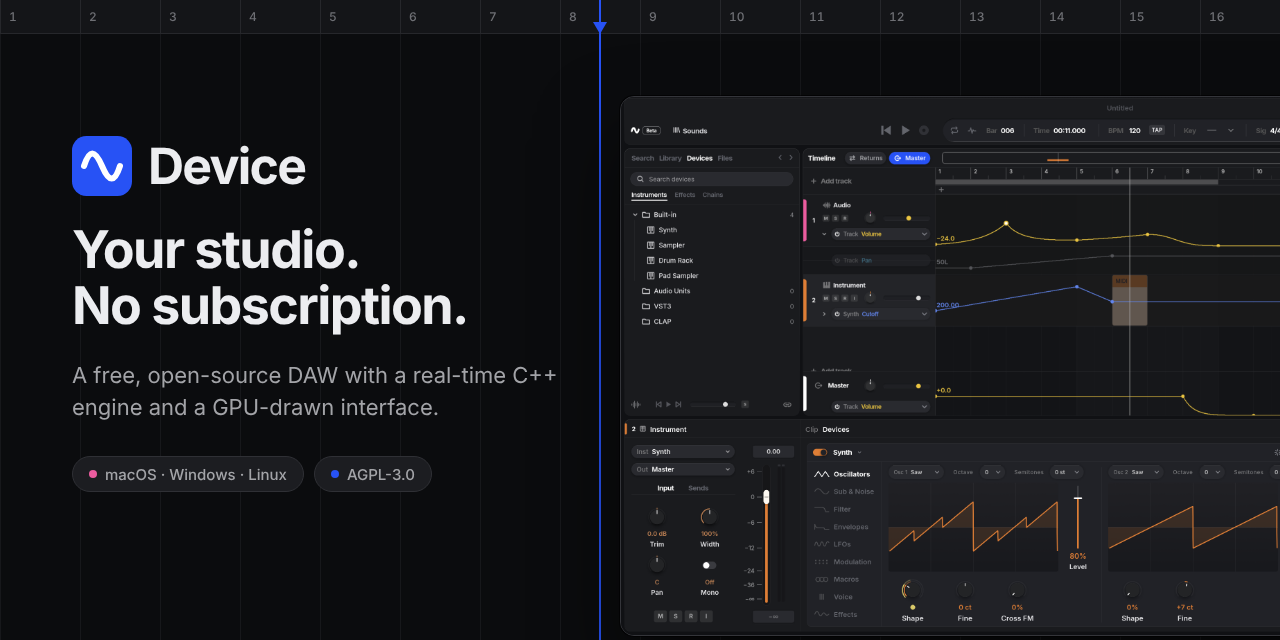
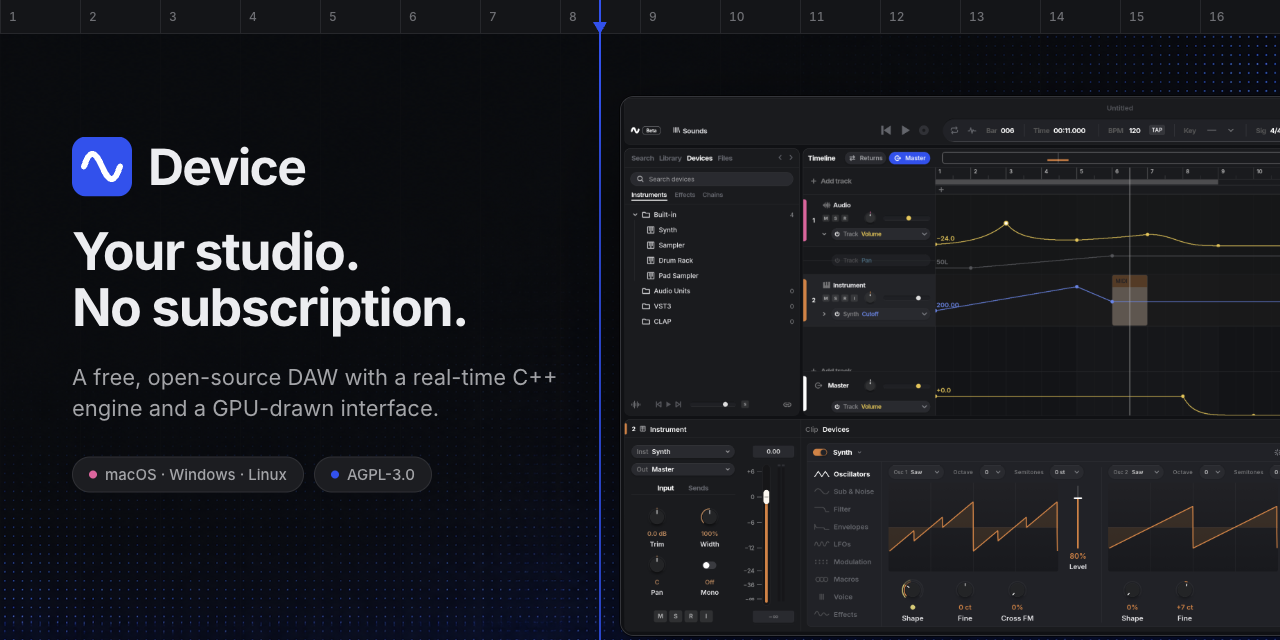
Apply Fine Signal texture to website branding

diff --git a/styles.css b/styles.css
@@ -39,6 +39,7 @@
   --text-3: #86878d;
   --blue: #2752f5;
   --blue-text: #8ea6ff;
+  --signal-texture: url("assets/fine-signal.webp");
   --pink: #ec5c9f;
   --orange: #de7e36;
   --yellow: #e4c64a;
@@ -50,6 +51,15 @@
   --mono: ui-monospace, "SF Mono", "Cascadia Code", "JetBrains Mono", Menlo,
     Consolas, monospace;
   --ease: cubic-bezier(0.2, 0.7, 0.2, 1);
+}
+
+@supports (background-image: image-set(url("assets/fine-signal.avif") type("image/avif"))) {
+  :root {
+    --signal-texture: image-set(
+      url("assets/fine-signal.avif") type("image/avif"),
+      url("assets/fine-signal.webp") type("image/webp")
+    );
+  }
 }
 
 *,
@@ -381,33 +391,19 @@ p {
   justify-content: flex-end;
   isolation: isolate;
   overflow: hidden;
-  background: radial-gradient(
-      60% 55% at 72% 70%,
-      rgb(39 82 245 / 0.18),
-      transparent 70%
-    ),
-    radial-gradient(40% 40% at 10% 100%, rgb(236 92 159 / 0.07), transparent),
-    var(--ground);
+  background: var(--ground);
 }
 .hero::before {
-  /* bar lines, matching the hero ruler */
+  /* A static image keeps the fine-dot material off the animation path. */
   content: "";
   position: absolute;
   inset: 0;
   z-index: -2;
-  background: repeating-linear-gradient(
-      90deg,
-      var(--grid) 0 1px,
-      transparent 1px 100%
-    )
-    0 0 / 6.25% 100%;
-  mask-image: linear-gradient(
-    180deg,
-    transparent,
-    #000 25%,
-    #000 75%,
-    transparent
-  );
+  background-image: var(--signal-texture);
+  background-position: center;
+  background-size: cover;
+  background-repeat: no-repeat;
+  pointer-events: none;
 }
 .hero::after {
   content: "";
@@ -493,12 +489,15 @@ p {
   margin-left: -0.05em;
 }
 .hero-accent {
-  background: linear-gradient(
+  background-image: var(--signal-texture), linear-gradient(
     92deg,
     #ffffff 0%,
     var(--blue-text) 45%,
     var(--blue) 100%
   );
+  background-size: 1000px auto, 100% 100%;
+  background-position: right center, center;
+  background-blend-mode: screen;
   -webkit-background-clip: text;
   background-clip: text;
   color: transparent;
@@ -522,6 +521,29 @@ p {
   flex-wrap: wrap;
   gap: 12px;
 }
+
+/* Fine Signal branding decorates marketing surfaces, never the app screenshots. */
+.plugin-band,
+.engine,
+.build {
+  position: relative;
+  isolation: isolate;
+}
+.plugin-band::before,
+.engine::before,
+.build::before {
+  content: "";
+  position: absolute;
+  z-index: -1;
+  inset: 0;
+  border-radius: inherit;
+  background: var(--signal-texture) right center / cover no-repeat;
+  opacity: 0.55;
+  pointer-events: none;
+}
+.engine::before { opacity: 0.3; }
+.build::before { opacity: 0.85; }
+
 /* ───────────────────────────── Reveal ───────────────────────────── */
 
 .reveal {
@@ -988,12 +1010,7 @@ html:not(.js) .chapter {
   padding: clamp(28px, 4vw, 48px);
   border: 1px solid var(--line);
   border-radius: var(--radius);
-  background: radial-gradient(
-      80% 120% at 100% 0%,
-      rgb(39 82 245 / 0.12),
-      transparent 60%
-    ),
-    var(--panel);
+  background: var(--panel);
 }
 .plugin-copy h3 {
   margin-bottom: 14px;
@@ -1104,12 +1121,7 @@ html:not(.js) .chapter {
 .engine {
   padding: clamp(96px, 12vw, 160px) 0;
   border-top: 1px solid var(--line);
-  background: radial-gradient(
-      50% 40% at 85% 30%,
-      rgb(39 82 245 / 0.1),
-      transparent 70%
-    ),
-    var(--ground);
+  background: var(--ground);
 }
 .engine-grid {
   display: grid;
@@ -1553,12 +1565,7 @@ html:not(.js) .chapter {
 .build {
   padding: clamp(96px, 12vw, 160px) 0;
   border-top: 1px solid var(--line);
-  background: radial-gradient(
-      60% 80% at 100% 100%,
-      rgb(39 82 245 / 0.22),
-      transparent 70%
-    ),
-    linear-gradient(180deg, var(--ground), #0d1020);
+  background: var(--ground);
 }
 .build-grid {
   display: grid;
@@ -1819,7 +1826,8 @@ html:not(.js) .chapter {
     display: none;
   }
   .hero::before {
-    background-size: 12.5% 100%;
+    background-position: 65% center;
+    opacity: 0.8;
   }
   .hero-foot {
     flex-direction: column;

diff --git a/design-qa.md b/design-qa.md
@@ -1,0 +1,29 @@
+# Fine Signal design QA
+
+Final result: passed
+
+Reviewed 13 November 2026 against the selected Fine Signal concept, the current website at 02edd96, and the implementation together in one comparison.
+
+## Evidence
+
+- [Reference, current website and implementation together](https://raw.githubusercontent.com/devicedaw/device/1ebced65075b39ff2afdb352581c630cc40681dc/fine-signal/reference-comparison.png)
+- [Desktop, 1440 × 1024](https://raw.githubusercontent.com/devicedaw/device/1ebced65075b39ff2afdb352581c630cc40681dc/fine-signal/after-website.png)
+- [Mobile, 390 × 844](https://raw.githubusercontent.com/devicedaw/device/1ebced65075b39ff2afdb352581c630cc40681dc/fine-signal/after-mobile.png)
+- [Sharing artwork](https://raw.githubusercontent.com/devicedaw/device/1ebced65075b39ff2afdb352581c630cc40681dc/fine-signal/after-social.png)
+
+## Fidelity and intentional differences
+
+The blue fine-dot material follows the selected concept's dark reading area, brighter right/lower falloff, restrained blue palette and clear typography. The current site's full-height layout, “Your studio. No subscription.” headline, animated scope, tour and real app views are retained. The concept's older headline and layout are not restored. The desktop app is outside this pass.
+
+The same source bitmap supplies the website and repository artwork. Lower-strength material sits behind the engine and feature cards; no dot layer covers app screenshots. Mark, fonts and screenshot contents remain unchanged. Rounded artwork corners retain transparency.
+
+## Checks
+
+- Desktop and mobile render inspected; mobile document width equals viewport width (390 px), with no horizontal overflow.
+- Mobile menu opens, navigation jumps to its section and closes the menu.
+- Instruments filter shows Synth, Sampler, Drum Rack and Pad Sampler; All restores 44 devices.
+- Copy reports success; interface marker interaction remains available on desktop. Existing scroll-tour code is unchanged.
+- No browser console errors during checks. JavaScript syntax and local asset paths pass.
+- AVIF material is 41,945 bytes; WebP fallback is 144,974 bytes. The two formats are alternatives, not cumulative requests. No third-party service or script added.
+
+No unresolved visual defects in the changed surfaces.

diff --git a/README.md b/README.md
@@ -32,7 +32,7 @@ No paid services, external fonts, analytics, cookies, package installation or cu
 
 ## Performance budget
 
-The page has no third-party requests. Keep the first view under 300 KB transferred (it is about 270 KB on a 2x desktop screen and 210 KB on a phone) and the whole page under 600 KB after scrolling to the end. Screenshots are lossy WebP at quality 88, fonts are Latin subsets in WOFF2, and the hero scope only animates while it is on screen.
+The page has no third-party requests. Keep the first view under 300 KB transferred (the Fine Signal material adds about 42 KB on browsers with AVIF support; remeasure the total when changing assets) and the whole page under 600 KB after scrolling to the end. Screenshots are lossy WebP at quality 88, fonts are Latin subsets in WOFF2, and the hero scope only animates while it is on screen.
 
 ## Structure
 
@@ -41,7 +41,7 @@ The page has no third-party requests. Keep the first view under 300 KB transferr
 | `index.html` | Content, links, accessible controls and sharing metadata      |
 | `styles.css` | Responsive layout, using the app's colour tokens              |
 | `site.js`    | Progressive enhancement; no framework or runtime dependencies |
-| `assets/`    | App views (`shots/`), the mark, the social image and fonts    |
+| `assets/`    | App views (`shots/`), the mark, Fine Signal texture, social image and fonts    |
 | `404.html`   | A useful return path for missing pages                        |
 
 ## License

diff --git a/ASSETS.md b/ASSETS.md
@@ -50,3 +50,17 @@ pyftsubset Inter-Bold.ttf --flavor=woff2 --output-file=assets/fonts/Inter-Bold.w
 Device artwork is covered by the source repository's AGPL-3.0-or-later license. Inter retains its SIL Open Font
 License, included beside the font files. The colours are the app's own tokens from
 `crates/dstudio-app/ui/tokens.slint`.
+
+## Fine Signal branding texture
+
+`assets/fine-signal.avif` (41,945 bytes) and its WebP fallback (144,974 bytes)
+are compressed versions of `devicedaw/device`'s
+`docs/art/textures/fine-signal.png`. The original bitmap was generated for
+Device with OpenAI image generation on 13 November 2026; its exact prompt is
+kept beside the source as `fine-signal-prompt.txt`. It supplies only decorative
+blue dots and light falloff behind the website and public artwork. App views,
+the logo and desktop app styles are unchanged.
+
+The social preview was rendered from the same repository's HTML artwork with
+that texture; the app screenshot inside it remains the app's own output.
+The website prefers AVIF through CSS image-set and uses WebP otherwise.
